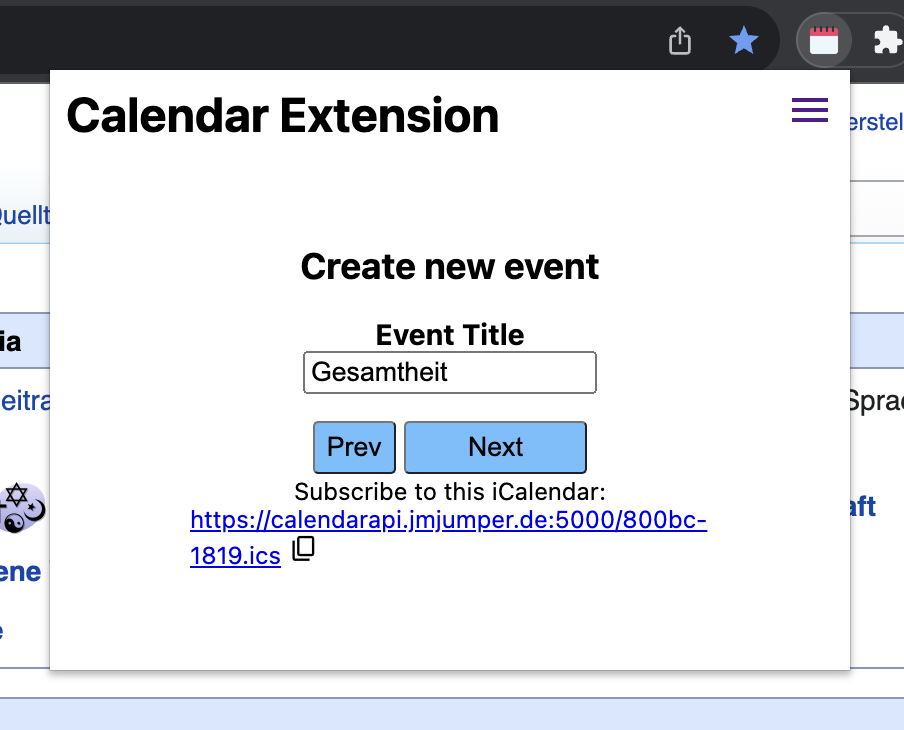
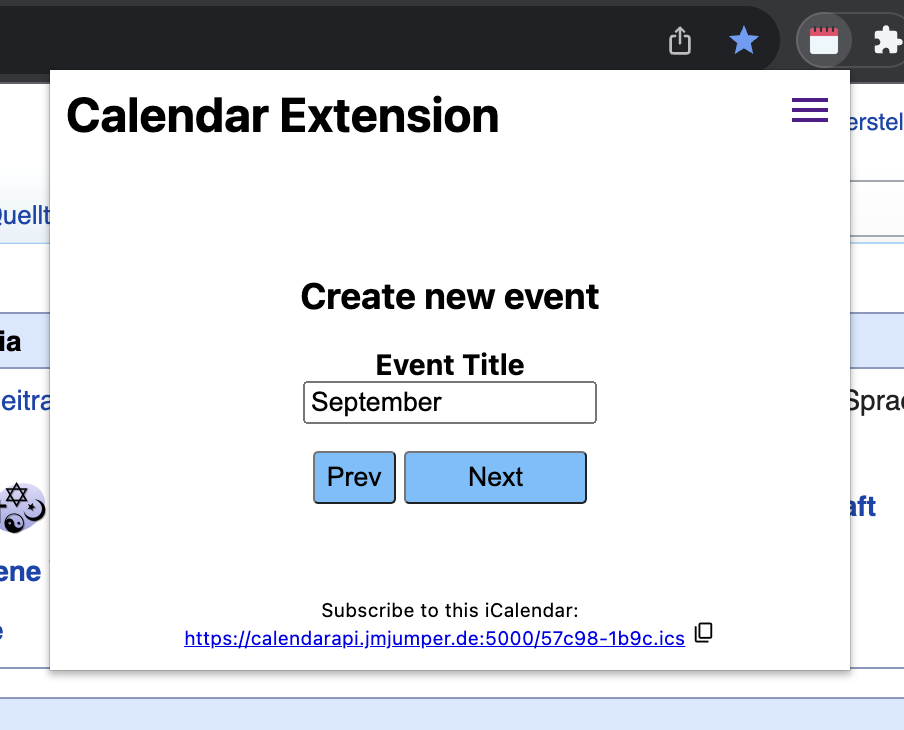
screenshots

Changed region(s): [[0.1858, 0.3315, 0.7743, 0.7836], [0.2168, 0.8137, 0.8053, 0.9041]]

diff --git a/Extension/popup/popup.html b/Extension/popup/popup.html
@@ -14,88 +14,93 @@
         ><span class="material-symbols-outlined" id="overview"> menu </span></a
       >
     </div>
-    <div class="container">
-      <form id="eventForm">
-        <div class="container_row">
-          <div class="formComp" id="title">
-            <h2>Create new event</h2>
-            <label id="eventTitleL" for="eventTitle">Event Title</label> <br />
-            <input
-              type="text"
-              id="eventTitle"
-              name="eventTitle"
-              placeholder="Event Title"
-            />
-          </div>
-          <div class="formComp" id="date">
-            <label id="eventDateL" for="eventDate">Event Date</label> <br />
-            <input
-              type="date"
-              id="eventDate"
-              name="eventDate"
-              placeholder="Event Date"
-            />
-          </div>
-          <div class="formComp" id="time">
-            <div class="subForm">
-              <div>
-                <label id="eventTimeL" for="eventTime">Event Time</label> <br />
-              </div>
-              <div id="eventTimeContainer">
+    <div class="outer">
+      <div class="container">
+        <form id="eventForm">
+          <div class="container_row">
+            <div class="formComp" id="title">
+              <h2>Create new event</h2>
+              <label id="eventTitleL" for="eventTitle">Event Title</label>
+              <br />
+              <input
+                type="text"
+                id="eventTitle"
+                name="eventTitle"
+                placeholder="Event Title"
+              />
+            </div>
+            <div class="formComp" id="date">
+              <label id="eventDateL" for="eventDate">Event Date</label> <br />
+              <input
+                type="date"
+                id="eventDate"
+                name="eventDate"
+                placeholder="Event Date"
+              />
+            </div>
+            <div class="formComp" id="time">
+              <div class="subForm">
                 <div>
-                  <p>from:</p>
+                  <label id="eventTimeL" for="eventTime">Event Time</label>
+                  <br />
+                </div>
+                <div id="eventTimeContainer">
+                  <div>
+                    <p>from:</p>
+                    <input
+                      type="time"
+                      id="eventTime"
+                      name="eventTime"
+                      placeholder="Event Time"
+                    />
+                  </div>
+                  <div>
+                    <p>to:</p>
+                    <input
+                      type="time"
+                      id="eventEndTime"
+                      name="eventEndTime"
+                      placeholder="Event Ending Time"
+                    />
+                  </div>
+                </div>
+                <div id="alldayContainer">
+                  <p>or allday:</p>
                   <input
-                    type="time"
-                    id="eventTime"
-                    name="eventTime"
-                    placeholder="Event Time"
+                    type="checkbox"
+                    id="allDay"
+                    name="allDay"
+                    value="allDay"
                   />
                 </div>
-                <div>
-                  <p>to:</p>
-                  <input
-                    type="time"
-                    id="eventEndTime"
-                    name="eventEndTime"
-                    placeholder="Event Ending Time"
-                  />
-                </div>
               </div>
-              <div id="alldayContainer">
-                <p>or allday:</p>
-                <input
-                  type="checkbox"
-                  id="allDay"
-                  name="allDay"
-                  value="allDay"
-                />
-              </div>
+            </div>
+
+            <div class="formComp" id="location">
+              <label id="eventLocationL" for="eventLocation"
+                >Event Location</label
+              >
+              <br />
+              <input
+                type="text"
+                id="eventLocation"
+                name="eventLocation"
+                placeholder="Event Location"
+              />
             </div>
           </div>
 
-          <div class="formComp" id="location">
-            <label id="eventLocationL" for="eventLocation"
-              >Event Location</label
-            >
-            <br />
-            <input
-              type="text"
-              id="eventLocation"
-              name="eventLocation"
-              placeholder="Event Location"
-            />
+          <div id="selectedText"></div>
+          <div class="buttons">
+            <button type="button" id="prevBtn">Prev</button>
+            <div class="next-submit">
+              <button type="button" id="nextBtn">Next</button>
+              <input id="submitInput" type="submit" value="Create Event" />
+              <br />
+            </div>
           </div>
-        </div>
-
-        <div id="selectedText"></div>
-        <div class="buttons">
-          <button type="button" id="prevBtn">Prev</button>
-          <div class="next-submit">
-            <button type="button" id="nextBtn">Next</button>
-            <input id="submitInput" type="submit" value="Create Event" /> <br />
-          </div>
-        </div>
-      </form>
+        </form>
+      </div>
 
       <div class="urlContainer">
         <div>Subscribe to this iCalendar:</div>

diff --git a/Extension/popup/popup.css b/Extension/popup/popup.css
@@ -80,7 +80,7 @@ label {
   display: flex;
   justify-content: space-between;
   align-items: flex-start;
-  height: 100px; /* Set a height for the container if needed */
+  height: 100px;
 }
 
 .header h1,
@@ -94,10 +94,8 @@ label {
   justify-content: center;
   align-items: center;
   height: 30px;
-}
-
-.url {
-  width: 260px;
+  font-size: 0.8em;
+  margin-top: 40%;
 }
 
 #copy {
